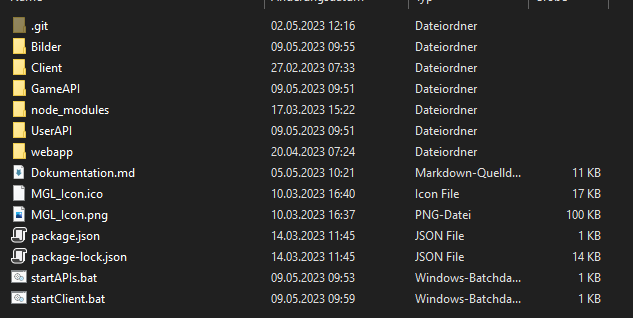
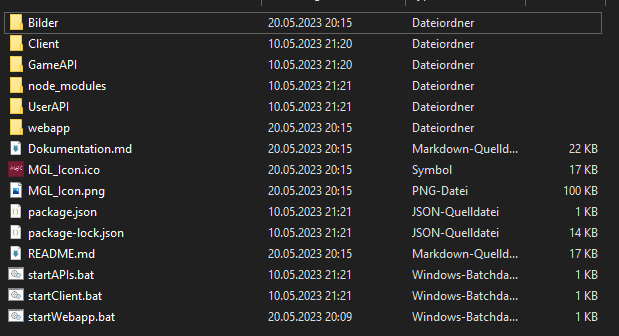
New Picture of Folder

diff --git a/README.md b/README.md
@@ -15,17 +15,11 @@
 Als erstes wird die .zip Datei entpackt und man erhält folgende Dateien:
 ![Imports](./Bilder/Ordner.png) 
 
-Um das Projekt zu starten ist es notwendig, die "startAPIs.bat" Datei auszuführen um die benötigten APIs zu starten.
+Um das Projekt zu starten ist es notwendig, die "startAPIs.bat" Datei auszuführen um die benötigten APIs zu starten. Ohne diese werden die Clients nicht funtkionieren.
 
-Um den Client zu benutzen muss man die "startClient.bat" Datei ausführen.
-
-Um die Webapp auszuführen ist Visual Studio notwendig. Man geht in den Ordner "webapp" und führt dort die Datei "MyApplication.sln" aus. Damit öffnet man das Mudblazor Projekt und kann es von dort aus starten.
-
-![Imports](./Bilder/webappordner.png) 
-
-Um nun die Webapp zu starten, muss man oben in der Leiste auf "IIS Express" drücken.
-
-![Imports](./Bilder/startwebapp.png) 
+Um die zwei Clients auszuführen eine neuere Version von .net notwendig.
+Um den Client zu benutzen muss man die "startClient.bat" Datei ausführen. 
+Um die Webapp zu starten muss man die "startWebapp.bat" Datei ausführen.
 
 # Dokumentation
 ## Game API
